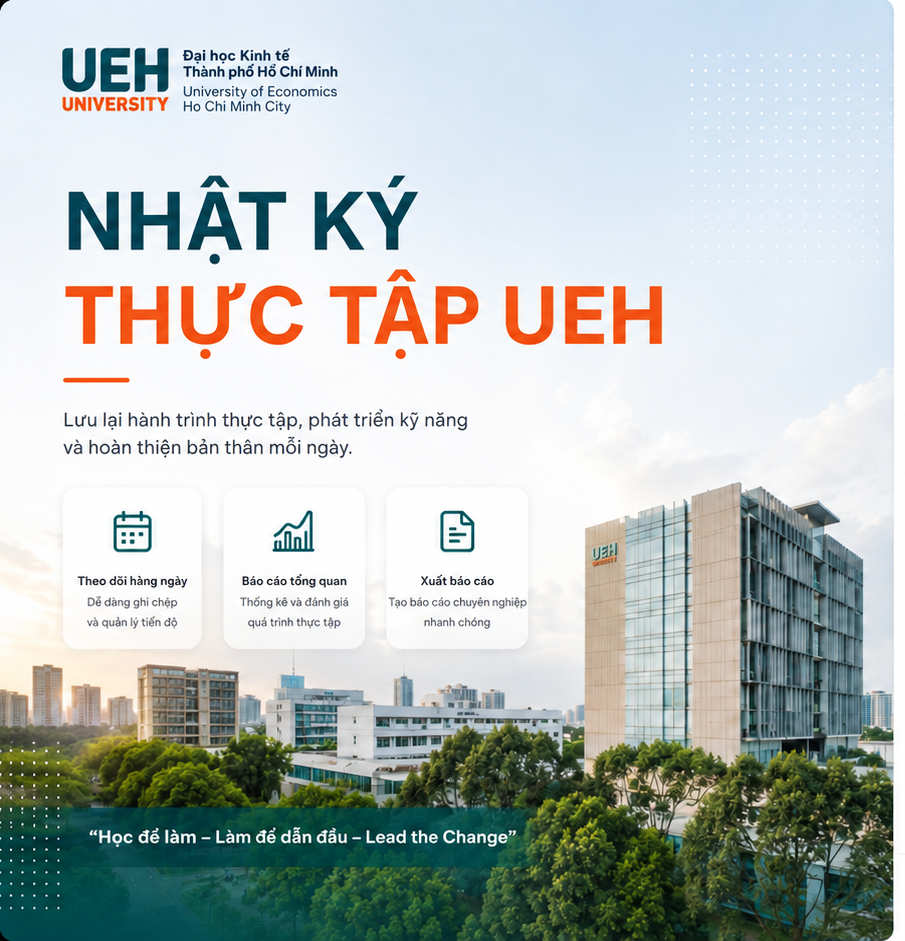
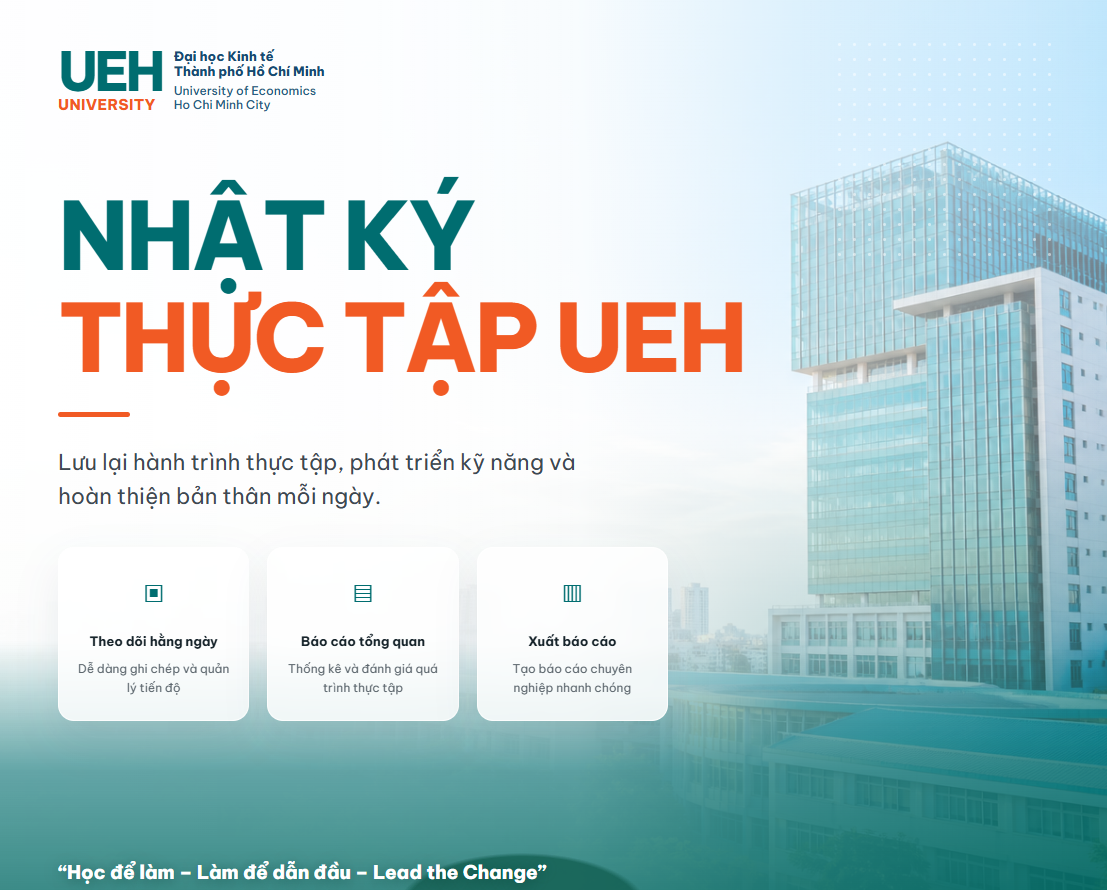
Lock UEH login artwork

diff --git a/components/internship-app.tsx b/components/internship-app.tsx
@@ -116,11 +116,11 @@ export default function InternshipApp({ view }: { view: View }) {
   };
   const initials = (user?.fullName || user?.username || "LH").split(/\s+/).filter(Boolean).slice(-2).map(part => part[0]).join("").toUpperCase();
   const isRegister = authMode === "register";
-  if (status === "locked") return <div className="access-page"><section className="access-intro" aria-label="Nhật ký thực tập UEH" /><form className="access-card" aria-busy={authWorking} onSubmit={e => { e.preventDefault(); void submitAuth(); }}><div className="access-form"><small className="auth-kicker">NHẬT KÝ THỰC TẬP</small><i className="auth-rule" /><h1>{isRegister ? "Tạo tài khoản nhật ký" : "Chào mừng bạn quay lại!"}</h1><p>{isRegister ? "Đăng ký để bắt đầu quản lý nhật ký thực tập cá nhân." : "Đăng nhập để tiếp tục nhật ký thực tập"}</p>{isRegister && <label><span>Họ và tên</span><div className="auth-input"><em aria-hidden="true">♙</em><input disabled={authWorking} autoComplete="name" placeholder="Nhập họ và tên của bạn" value={fullName} onChange={e => setFullName(e.target.value)} minLength={2} maxLength={80} required /></div></label>}<label><span>Mã số sinh viên / Email</span><div className="auth-input"><em aria-hidden="true">♙</em><input disabled={authWorking} autoComplete="username" placeholder="Nhập mã số sinh viên hoặc email" value={username} onChange={e => setUsername(e.target.value)} minLength={3} maxLength={80} pattern="[A-Za-z0-9._@-]+" required /></div></label><label><span>Mật khẩu</span><div className="auth-input"><em aria-hidden="true">▣</em><input disabled={authWorking} type="password" autoComplete={isRegister ? "new-password" : "current-password"} placeholder="Nhập mật khẩu" value={password} onChange={e => setPassword(e.target.value)} minLength={6} maxLength={128} required /><em aria-hidden="true">◉</em></div></label>{!isRegister && <div className="auth-row"><label className="remember"><input type="checkbox" disabled={authWorking} />Ghi nhớ đăng nhập</label><button type="button" className="auth-link" onClick={() => setMessage("Bạn có thể liên hệ Khoa/Viện quản lý thực tập để được hỗ trợ.")}>Quên mật khẩu?</button></div>}{message && <div className="access-error">{message}</div>}<button className="primary-btn auth-submit" disabled={authWorking}>{isRegister ? "Tạo tài khoản" : "Đăng nhập"}</button>{!isRegister && <><div className="auth-divider"><span />hoặc<span /></div><button type="button" className="auth-ms" disabled={authWorking} onClick={() => setMessage("Tính năng Microsoft chưa được cấu hình cho dự án cá nhân này.")}><span className="ms-logo" aria-hidden="true"><i /><i /><i /><i /></span>Đăng nhập với Microsoft</button><p className="auth-contact">Chưa có tài khoản? <button type="button" onClick={() => { setAuthMode("register"); setMessage(""); }}>Liên hệ Khoa/Viện quản lý thực tập</button></p></>}{isRegister && <><div className="auth-divider"><span />hoặc<span /></div><button type="button" className="auth-ms" disabled={authWorking} onClick={() => { setAuthMode("login"); setMessage(""); }}>Quay lại đăng nhập</button></>}</div><footer>© 2026 UEH. All rights reserved.<nav><span>Điều khoản sử dụng</span><span>Chính sách bảo mật</span><span>Hướng dẫn</span></nav></footer></form></div>;
+  if (status === "locked") return <div className="access-page"><section className="access-intro locked-art" aria-label="Nhật ký thực tập UEH" onContextMenu={e => e.preventDefault()}><img className="locked-art-image" src="/auth-ueh-left.png" alt="" draggable={false} aria-hidden="true" /></section><form className="access-card" aria-busy={authWorking} onSubmit={e => { e.preventDefault(); void submitAuth(); }}><div className="access-form"><small className="auth-kicker">NHẬT KÝ THỰC TẬP</small><i className="auth-rule" /><h1>{isRegister ? "Tạo tài khoản nhật ký" : "Chào mừng bạn quay lại!"}</h1><p>{isRegister ? "Đăng ký để bắt đầu quản lý nhật ký thực tập cá nhân." : "Đăng nhập để tiếp tục nhật ký thực tập"}</p>{isRegister && <label><span>Họ và tên</span><div className="auth-input"><em aria-hidden="true">♙</em><input disabled={authWorking} autoComplete="name" placeholder="Nhập họ và tên của bạn" value={fullName} onChange={e => setFullName(e.target.value)} minLength={2} maxLength={80} required /></div></label>}<label><span>Mã số sinh viên / Email</span><div className="auth-input"><em aria-hidden="true">♙</em><input disabled={authWorking} autoComplete="username" placeholder="Nhập mã số sinh viên hoặc email" value={username} onChange={e => setUsername(e.target.value)} minLength={3} maxLength={80} pattern="[A-Za-z0-9._@-]+" required /></div></label><label><span>Mật khẩu</span><div className="auth-input"><em aria-hidden="true">▣</em><input disabled={authWorking} type="password" autoComplete={isRegister ? "new-password" : "current-password"} placeholder="Nhập mật khẩu" value={password} onChange={e => setPassword(e.target.value)} minLength={6} maxLength={128} required /><em aria-hidden="true">◉</em></div></label>{!isRegister && <div className="auth-row"><label className="remember"><input type="checkbox" disabled={authWorking} />Ghi nhớ đăng nhập</label><button type="button" className="auth-link" onClick={() => setMessage("Bạn có thể liên hệ Khoa/Viện quản lý thực tập để được hỗ trợ.")}>Quên mật khẩu?</button></div>}{message && <div className="access-error">{message}</div>}<button className="primary-btn auth-submit" disabled={authWorking}>{isRegister ? "Tạo tài khoản" : "Đăng nhập"}</button>{!isRegister && <><div className="auth-divider"><span />hoặc<span /></div><button type="button" className="auth-ms" disabled={authWorking} onClick={() => setMessage("Tính năng Microsoft chưa được cấu hình cho dự án cá nhân này.")}><span className="ms-logo" aria-hidden="true"><i /><i /><i /><i /></span>Đăng nhập với Microsoft</button><p className="auth-contact">Chưa có tài khoản? <button type="button" onClick={() => { setAuthMode("register"); setMessage(""); }}>Liên hệ Khoa/Viện quản lý thực tập</button></p></>}{isRegister && <><div className="auth-divider"><span />hoặc<span /></div><button type="button" className="auth-ms" disabled={authWorking} onClick={() => { setAuthMode("login"); setMessage(""); }}>Quay lại đăng nhập</button></>}</div><footer>© 2026 UEH. All rights reserved.<nav><span>Điều khoản sử dụng</span><span>Chính sách bảo mật</span><span>Hướng dẫn</span></nav></footer></form></div>;
   if (!state) return null;
   const update = (fn: (s: AppState) => AppState) => setState(previous => previous ? fn(previous) : previous);
   return <div className="app-shell"><aside className={menu ? "sidebar open" : "sidebar"}>
-    <Link className="brand ueh-sidebar-logo" href="/"><span className="ueh-wordmark"><div><b>UEH</b><strong>UNIVERSITY</strong></div><span>Đại học Kinh tế<br />Thành phố Hồ Chí Minh<small>University of Economics<br />Ho Chi Minh City</small></span></span></Link>
+    <Link className="brand ueh-sidebar-logo locked-art" href="/" onContextMenu={e => e.preventDefault()}><img src="/ueh-wordmark.png" alt="UEH University" draggable={false} /></Link>
     <nav>{nav.map(item => <Link key={item.view} href={item.href} className={view === item.view ? "active" : ""}><span>{item.icon}</span>{item.label}{item.view === "compliance" && <em>{getComplianceItems(state).filter(item => item.status === "Đạt").length}</em>}</Link>)}</nav>
     <div className="sidebar-foot"><span>●</span><div><b>Đồng bộ riêng tư</b><small>Tự động lưu dữ liệu</small></div></div>
   </aside>{menu && <button className="scrim" onClick={() => setMenu(false)} aria-label="Đóng menu" />}

diff --git a/app/auth-layout.css b/app/auth-layout.css
@@ -9,7 +9,29 @@
 
 .access-intro {
   min-height: 100vh;
-  background: url("/auth-ueh-left.png") center center / cover no-repeat;
+  position: relative;
+  overflow: hidden;
+  background: #eaf7fc;
+}
+
+.locked-art {
+  user-select: none;
+  -webkit-user-select: none;
+}
+
+.locked-art,
+.locked-art * {
+  -webkit-user-drag: none;
+}
+
+.locked-art-image {
+  position: absolute;
+  inset: 0;
+  width: 100%;
+  height: 100%;
+  object-fit: cover;
+  object-position: center center;
+  pointer-events: none;
 }
 
 .access-page .access-card {
